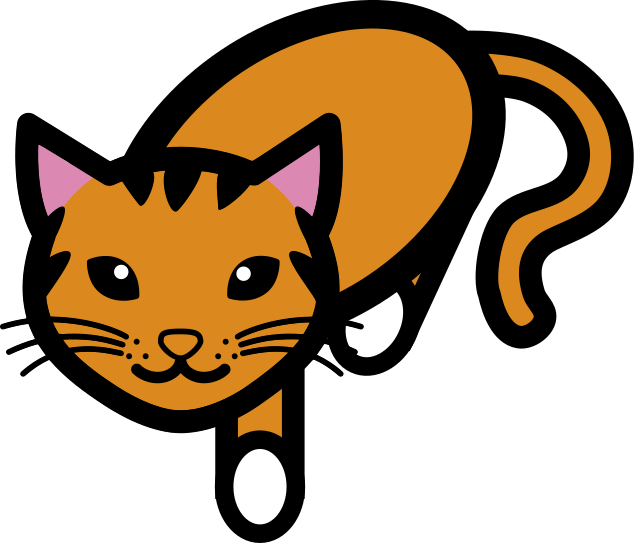
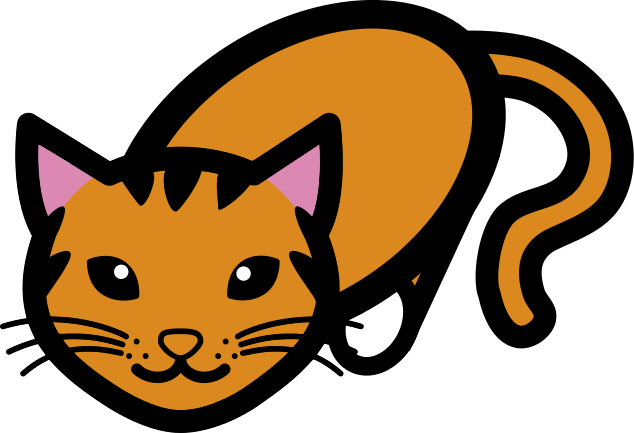
Fixed static paw placement

diff --git a/src/ts/models/cat.ts b/src/ts/models/cat.ts
@@ -2,6 +2,7 @@ namespace App.Models {
     export class Cat extends Phaser.Group {
         public cat: Phaser.Sprite;
         public paw: Phaser.Sprite;
+        public staticPaw: Phaser.Sprite;
 
         private startingAngle: number;
         private pawPivot: Phaser.Point;
@@ -18,9 +19,15 @@ namespace App.Models {
             this.cat.scale.set(0.56);
             this.cat.anchor.set(0.5, 0);
 
+            this.staticPaw = this.game.make.sprite(140, 145, 'catPaw');
+            this.staticPaw.anchor.set(0.5, 0);
+            this.staticPaw.scale.set(0.56);
+
             this.paw = this.game.make.sprite(70, 175, 'catPaw');
             this.paw.anchor.set(0.5, 0);
             this.paw.scale.set(0.56);
+
+            this.add(this.staticPaw);
             this.add(this.paw);
             this.add(this.cat);
 
